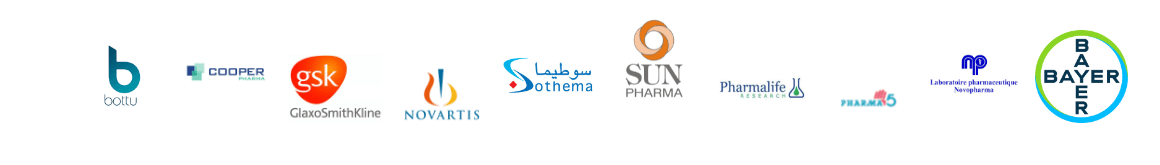
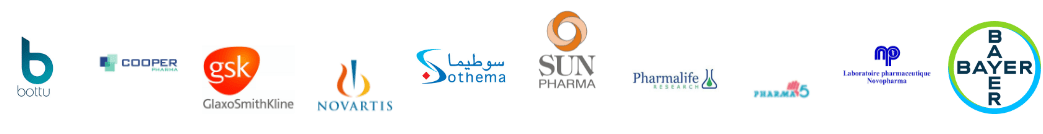
fixed the width body

diff --git a/html/reception.html b/html/reception.html
@@ -5,11 +5,12 @@
   <meta charset="UTF-8">
   <meta http-equiv="X-UA-Compatible" content="IE=edge">
   <meta name="viewport" content="width=device-width, initial-scale=1.0">
-  <title>Telephone</title>
-  <link rel="stylesheet" href="../styles/icons.css">
   <link rel="stylesheet" href="../styles/header.css">
+  <link rel="stylesheet" href="../styles/icons.css">
   <link rel="stylesheet" href="../styles/footer.css">
   <link rel="stylesheet" href="../styles/templete-servs.css">
+  <link rel="stylesheet" href="../styles/reception.css">
+  <title>استقبال السلع</title>
 </head>
 
 <body>
@@ -22,7 +23,7 @@
             <li><a href="../index.html">الرئيسية</a></li>
             <li><a href="../index.html#servs">الاقسام</a></li>
             <li><a href="../index.html#about">حول الشركة</a></li>
-            <li><a href="../index.html#feat">تواصل معنا</a></li>
+            <li><a href="../index.html#feat">المميزات</a></li>
             <li><a href="thanks.html">كلمتي</a></li>
           </ul>
           <i class="icon-bars" id="open"></i>
@@ -35,17 +36,24 @@
   <div class="container">
     <div class="content">
       <div class="img">
-        <img src="../call-center.svg" alt="">
+        <img src="../" alt="">
       </div>
       <div class="text">
-        <h2>المكالمات</h2>
-        <p>استقبال مكالمات الزبائن في الشركة هي المرحلة الاولى و المهمة في التعامل مع الزبون بالنسبة لهم ، فهي نقطة
-          البداية في رحلة إرضائه
-          و استلام طلباته، و لهذا سبب يوجد لديهم فريق خاص لهذه الخدمة مكون من عدة أفراد ،
-          لكل موظف منهم مكتبه الخاص مكون من حاسوب و هاتف ثابت و آخر محمول ، و سأشرح دور كل واحد منهم خلال وصفي للخدمة و
-          خطواتها.</p>
-        <p>في بداية كل اسبوع يستقبل الموظف قائمة بها مجموعة من اسماء و ارقام تخص الزبناء للاتصال بهم مستعملا سماعته و
-          الهاتف الثابت ، و ينقسم هؤلاء الزبناء بدورهم الى ثلاثة اقسام ، </p>
+        <h2>استقبال السلع</h2>
+        <p>
+          لا معنى للشركة بدون وجود منتجات ، فدورها الاساسي هو الاستقبال و التوزيع ، لذا فالشركة تجهز قسم كامل
+          الاستقبال السلع أو المنتجات مرتين في الاسبوع ، مرة في بدايتة و الاخرى في نهايته .
+        </p>
+        <p>إن ألقيت نظرة على هذا القسم للمرة الأولى ربما تعتقد أن مهامه سهلة ، لكن الحقيقة أنها بسيطة و ليست بسهلة
+          ، إذ تكمن صعوبتها في تحمل المسؤولية .
+        </p>
+        <p>
+          جميع السلع التي يتم استقبالها يتكلف بها موظف هذا القسم و يعتني بها ، و أي خطأ إما في الكمية ، سلامة السلع ، أو
+          تاريخ إنتهاء الصلاحية ، يتحمل الموظف مسؤوليته .
+        </p>
+        <p>
+
+        </p>
         <ul>
           <li>قسم داخل المدينة على الموظف الاتصال بزبنائه مرة في بداية اليوم و أخرى في
             آخره .
@@ -54,13 +62,16 @@
           <li>و آخر أيضا زبنائه من خارج المدينة إلا أن الاتصال بهم هنا يكون مرة واحدة فقط في اليوم . </li>
         </ul>
         <p>عند اجراء المكالمة ، دور الموظف هو تسجيل كمية و أسماء المنتجات التي يطلبها الزبون مع تزويد الاخير بأي معلومات
-          يحتاجها .</p>
+          يحتاجها .
+        </p>
         <p>بعدها مباشرة توضع علامة على اسم الزبون كإشارة على اكتمال العملية .</p>
         <p>في منتصف الاسبوع، أي بعد مرور ثلاثة أيام توزع على الموظفين نفس القوائم بها نفس اسماء و ارقام الزبناء ،
-          ليبدأوا الرحلة من جديد . </p>
+          ليبدأوا الرحلة من جديد .
+        </p>
         <p>أما بالنسبة لاستقبال المكالمات فيكون عن طريق الهاتف المحمول في أي وقت من أوقات عمل الشركة .</p>
         <p>شعار هذا المركز هو إرضاء الزبناء لذلك يوفر تطبيق آخر لاستقبال المكالمات العاجلة ، الدور هنا ليس لموظف بعينه ،
-          بل الكل ملزم بمراقبة التطبيق و إلتقاط المكالمة .</p>
+          بل الكل ملزم بمراقبة التطبيق و إلتقاط المكالمة .
+        </p>
 
       </div>
       <div class="thanks">
@@ -69,12 +80,12 @@
         </div>
         <div class="face back">شكراً للاخت "حسناء" لتزويدي بجميع المعلومات التي ذكرتها </div>
       </div>
-    </div>
-  </div>
+    </div><!-- end content -->
+  </div><!-- end container -->
   <div class="footer">
     <span>Designed By Abdelhamid JAWHARI</span>
     <span class="tel">+212606517700</span>
-  </div>
+  </div><!-- end footer -->
   <script src="../js/header.js"></script>
   <script>
     setInterval(() => {

diff --git a/index.html b/index.html
@@ -27,7 +27,7 @@
             <div class="logo">COOPER<span>ortiental</span></div>
             <ul class="links">
               <li><a href="index.html">الرئيسية</a></li>
-              <li><a href="#servs">الخدمات</a></li>
+              <li><a href="#servs">الاقسام</a></li>
               <li><a href="#about">حول الشركة</a></li>
               <li><a href="#feat">المميزات</a></li>
               <li><a href="html/thanks.html">كلمتي</a></li>
@@ -81,15 +81,16 @@
     <section class="services" id="servs">
       <div class="container">
         <div class="s-heading">
-          <h2 class="title">الخدمات</h2>
+          <h2 class="title">الاقسام</h2>
         </div>
         <div class="s-box-container">
           <div class="s-box">
             <div class="bar"></div>
             <i class="icon-phone"></i>
             <h2 class="h1">المكالمات</h2>
-            <p class="lead">استقبال مكالمات الزبائن في الشركة هي المرحلة الاولى و المهمة بالنسبة لهم ، فهي نقطة البداية
-              في رحلة ارضاء الزبون و استلام طلباته ... </p>
+            <p>استقبال مكالمات الزبائن في الشركة هي المرحلة الاولى و المهمة في التعامل مع الزبون بالنسبة
+              لهم ، فهي نقطة البداية
+              في رحلة إرضائه و استلام طلباته ... </p>
             <a class="s-btn" href="html/telephone.html">اقرأ المزيد</a>
           </div>
           <div class="s-box">
@@ -104,9 +105,17 @@
             <div class="bar"></div>
             <i class="icon-truck"></i>
             <h2 class="h1">الشحن</h2>
-            <p class="lead">استقبال مكالمات الزبائن في الشركة هي المرحلة الاولى و المهمة بالنسبة لهم ، فهي نقطة البداية
+            <p>استقبال مكالمات الزبائن في الشركة هي المرحلة الاولى و المهمة بالنسبة لهم ، فهي نقطة البداية
               في رحلة ارضاء الزبون و استلام طلباته ... </p>
             <a class="s-btn" href="html/shipping.html">اقرأ المزيد</a>
+          </div>
+          <div class="s-box">
+            <div class="bar"></div>
+            <i class="icon-clipboard"></i>
+            <h2 class="h1">استقبال السلع</h2>
+            <p>لا معنى للشركة بدون وجود منتجات ، فدورها الاساسي هو الاستقبال و التوزيع ، لذا فالشركة تجهز قسم كامل
+              الاستقبال السلع أو المنتجات مرتين في الاسبوع ، مرة في بدايتة و الاخرى في نهايته ...</p>
+            <a class="s-btn" href="html/reception.html">اقرأ المزيد</a>
           </div>
         </div>
       </div>
@@ -187,7 +196,7 @@
           </div>
           <div class="text">
             <h2>about cooper</h2>
-            <p class="lead">Lorem ipsum dolor sit amet consectetur adipisicing elit. Odit ipsum cupiditate facere ex
+            <p>Lorem ipsum dolor sit amet consectetur adipisicing elit. Odit ipsum cupiditate facere ex
               impedit cum illo, architecto corporis dicta quisquam id a commodi? Possimus quasi sed amet? Tenetur
               dolores adipisci accusantium ex ipsam totam placeat consequuntur veritatis reiciendis! Ut, similique?</p>
           </div>

diff --git a/html/stock.html b/html/stock.html
@@ -21,7 +21,7 @@
           <div class="logo">COOPER<span>ortiental</span></div>
           <ul class="links">
             <li><a href="../index.html">الرئيسية</a></li>
-            <li><a href="../index.html#servs">الخدمات</a></li>
+            <li><a href="../index.html#servs">الاقسام</a></li>
             <li><a href="../index.html#about">حول الشركة</a></li>
             <li><a href="../index.html#feat">المميزات</a></li>
             <li><a href="thanks.html">كلمتي</a></li>
@@ -259,7 +259,17 @@
         </div>
         <p>ربما المثال يوضح ما أقصد ، فمثلا موظف الرف A في هذه الحالة مطالب بجلب المنتج الاول فقط الذي يوجد أمامه رمز A
           ، و ربما في بعض الحالات لا يوجد بالفاتورة أي منتج في الرف A أصلا ، هنا فقط يضعها في الصندوق و يمررها إلى الرف
-          B . </p>
+          B .
+        </p>
+        <p>بعد إنتهاء العملية لا تشحن المنتجات مباشرة ، بل تأخد إلى قسم آخر للمراقبة و التأكد من أن كل صندوق به فاتورة ،
+          و المنتجات المطلوبة فيها مطابقة تماما لما في صندوق .</p>
+      </div>
+      <div class="thanks">
+        <div class="face front">شكراً
+          <i class="fas fa-heart"></i>
+        </div>
+        <div class="face back">شكراً للسيد "عبد المجيد الحياني" رئيس المستودع ، و للموظف السيد "عبد القادر" لتزويدي
+          بجميع المعلومات التي ذكرتها </div>
       </div>
     </div>
   </div>
@@ -269,9 +279,9 @@
   </div>
   <script src="../js/header.js"></script>
   <script>
-    // setInterval(() => {
-    //   document.querySelector(".thanks").classList.toggle("flip");
-    // }, 3500);
+    setInterval(() => {
+      document.querySelector(".thanks").classList.toggle("flip");
+    }, 5000);
   </script>
 </body>
 

diff --git a/styles/icons.css b/styles/icons.css
@@ -1,10 +1,10 @@
 @font-face {
   font-family: 'icomoon';
-  src:  url('fonts/icomoon.eot?sbfpmm');
-  src:  url('fonts/icomoon.eot?sbfpmm#iefix') format('embedded-opentype'),
-    url('fonts/icomoon.ttf?sbfpmm') format('truetype'),
-    url('fonts/icomoon.woff?sbfpmm') format('woff'),
-    url('fonts/icomoon.svg?sbfpmm#icomoon') format('svg');
+  src:  url('fonts/icomoon.eot?1c29bk');
+  src:  url('fonts/icomoon.eot?1c29bk#iefix') format('embedded-opentype'),
+    url('fonts/icomoon.ttf?1c29bk') format('truetype'),
+    url('fonts/icomoon.woff?1c29bk') format('woff'),
+    url('fonts/icomoon.svg?1c29bk#icomoon') format('svg');
   font-weight: normal;
   font-style: normal;
   font-display: block;
@@ -54,4 +54,10 @@
 }
 .icon-location:before {
   content: "\e948";
+}
+.icon-spinner:before {
+  content: "\e984";
+}
+.icon-clipboard:before {
+  content: "\e9b8";
 }

diff --git a/styles/templete-servs.css b/styles/templete-servs.css
@@ -12,12 +12,16 @@
 }
 .container {
   padding: 0px 10px;
+  margin: auto;
 }
 .content {
   margin-top: 100px;
   margin-bottom: 100px;
+  display: flex;
+  flex-direction: column;
+  align-items: center;
 }
-.content .img {
+.content img {
   width: 200px;
   margin: auto;
   margin-bottom: 100px;

diff --git a/styles/footer.css b/styles/footer.css
@@ -11,7 +11,7 @@
   justify-content: center;
   font-size: 10px;
   font-family: var(--mainFont);
-  width: 100vw;
+  width: 100%;
 }
 .footer span {
   white-space: nowrap;

diff --git a/styles/header.css b/styles/header.css
@@ -14,7 +14,7 @@
 header {
   background-color: var(--mainColor);
   color: white;
-  width: 100vw;
+  width: 100%;
 }
 header .header {
   padding: 0px 30px;
